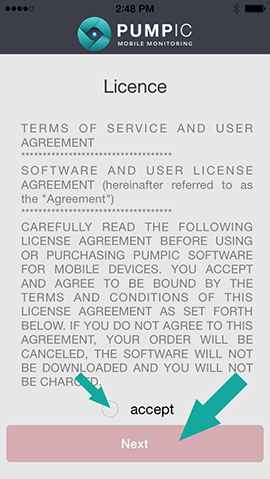
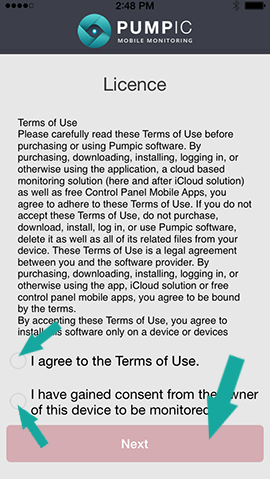
SD-2023 change  guide's text, replace images, rename pages.

diff --git a/app/templates/content/en-US/instructions/rooting-android.html b/app/templates/content/en-US/instructions/rooting-android.html
@@ -212,7 +212,7 @@
 
                     <p>*For your convenience, here are some links to instructions on rooting the most popular device models (<a href="http://forum.xda-developers.com/google-nexus-5/orig-development/nexus-5-cf-auto-root-t2507211" target="_blank">Nexus 5</a>, <a href="http://forum.xda-developers.com/nexus-5x/general/guides-how-to-guides-beginners-t3206930" target="_blank">Nexus 5x</a>, <a href="http://forum.xda-developers.com/nexus-6/development/toolkit-wugs-nexus-root-toolkit-v1-9-8-t2947452" target="_blank">Nexus 6</a>, <a href="http://forum.xda-developers.com/nexus-6p/general/guides-how-to-guides-beginners-t3206928" target="_blank">Nexus 6P</a>, <a href="http://howtorootmobile.com/how-to-root-nexus-7-on-android-6-0-marshmallow-with-twrp/" target="_blank">Nexus 7</a>, <a href="http://forum.xda-developers.com/galaxy-s5/unified-development/rom-vrtoxin-v1-0-mm6-0-klte-t3238785" target="_blank">Galaxy S5</a>, <a href="http://forum.xda-developers.com/note-4/snapdragon-dev/unofficial-cm13-0-910f-g-t3280529" target="_blank">Galaxy Note 4</a>).</p>
 
-                    <p>Are you done? Please wait for 20 minutes until Pumpic starts collecting the data.</p>
+                    <p>Are you done? Please wait for 20 minutes until collected data appears in the Control Panel.</p>
                 </div>
             </div>
         </div>
@@ -311,7 +311,7 @@
 
                     <p>*For your convenience, here are some links to instructions on rooting the most popular device models (<a href="http://forum.xda-developers.com/google-nexus-5/orig-development/nexus-5-cf-auto-root-t2507211" target="_blank">Nexus 5</a>, <a href="http://forum.xda-developers.com/nexus-5x/general/guides-how-to-guides-beginners-t3206930" target="_blank">Nexus 5x</a>, <a href="http://forum.xda-developers.com/nexus-6/development/toolkit-wugs-nexus-root-toolkit-v1-9-8-t2947452" target="_blank">Nexus 6</a>, <a href="http://forum.xda-developers.com/nexus-6p/general/guides-how-to-guides-beginners-t3206928" target="_blank">Nexus 6P</a>, <a href="http://howtorootmobile.com/how-to-root-nexus-7-on-android-6-0-marshmallow-with-twrp/" target="_blank">Nexus 7</a>, <a href="http://forum.xda-developers.com/galaxy-s5/unified-development/rom-vrtoxin-v1-0-mm6-0-klte-t3238785" target="_blank">Galaxy S5</a>, <a href="http://forum.xda-developers.com/note-4/snapdragon-dev/unofficial-cm13-0-910f-g-t3280529" target="_blank">Galaxy Note 4</a>).</p>
 
-                    <p>Are you done? Please wait for 20 minutes until Pumpic starts collecting the data.</p>
+                    <p>Are you done? Please wait for 20 minutes until collected data appears in the Control Panel.</p>
                 </div>
             </div>
         </div>

diff --git a/app/templates/wizard/setup.instruction.icloud.htm b/app/templates/wizard/setup.instruction.icloud.htm
@@ -11,7 +11,8 @@
 <ol>
     <li>
         <p>iCloud Backup is enabled on the target iPhone, iPad or iPod Touch.</p>
-        <p>To make sure, take the target Apple iOS device. Then go to <b>Settings</b> > <b>iCloud</b> > <b>Storage & Backup</b>. If <b>iCloud Backup</b> is off, please turn it <b>ON</b> (as shown below).</p>
+        <p>To make sure, take the target Apple iOS device. Then go to <b>Settings</b> > <b>iCloud</b> > <b>Backup</b>. If <b>iCloud Backup</b> is off, please turn it <b>ON</b> (as shown below).</p>
+        <p><b>Note:</b> for iOS 6-8 path is Settings > iCloud > Storage & Backup</p>
         <p>
             <img class="img-thumbnail" src="{$di.config.staticDomain}/images/how-to-install/icloud-instructions/1.png" />&nbsp;<img class="img-thumbnail" src="{$di.config.staticDomain}/images/how-to-install/icloud-instructions/2.png" />&nbsp;<img class="img-thumbnail" src="{$di.config.staticDomain}/images/how-to-install/icloud-instructions/3.png" />
         </p>
@@ -28,7 +29,7 @@
         <p>
             It all means that the data from the target devices might be sent to your Control Panel with a day delay.
             If you need the data updates to be uploaded as soon as possible, you can perform <b>iCloud Backup</b> manually.
-            Go to <b>Settings</b> > <b>iCloud</b> > <b>Storage & Backup</b> (as shown above) and tap <b>Back Up Now</b>.
+            Go to <b>Settings</b> > <b>iCloud</b> > <b>Backup</b> (as shown above) and tap <b>Back Up Now</b>.
         </p>
         <p>
             <img class="img-thumbnail" src="{$di.config.staticDomain}/images/how-to-install/icloud-instructions/4.png" />&nbsp;<img class="img-thumbnail" src="{$di.config.staticDomain}/images/how-to-install/icloud-instructions/5.png" />

diff --git a/app/templates/wizard/icloud/setup.instruction.htm b/app/templates/wizard/icloud/setup.instruction.htm
@@ -11,7 +11,8 @@
     </li>
     <li>
         <p>iCloud Backup is enabled on the target iPhone, iPad or iPod Touch.</p>
-        <p>To make sure, take the target Apple iOS device. Then go to <b>Settings</b> > <b>iCloud</b> > <b>Storage & Backup</b>. If <b>iCloud Backup</b> is off, please turn it <b>ON</b> (as shown below).</p>
+        <p>To make sure, take the target Apple iOS device. Then go to <b>Settings</b> > <b>iCloud</b> > <b>Backup</b>. If <b>iCloud Backup</b> is off, please turn it <b>ON</b> (as shown below).</p>
+        <p><b>Note:</b> for iOS 6-8 path is Settings > iCloud > Storage & Backup</p>
         <p>
             <img class="img-thumbnail" src="{$di.config.staticDomain}/images/how-to-install/icloud-instructions/1-1.png" />&nbsp;<img class="img-thumbnail" src="{$di.config.staticDomain}/images/how-to-install/icloud-instructions/1-2.png" />&nbsp;<img class="img-thumbnail" src="{$di.config.staticDomain}/images/how-to-install/icloud-instructions/1-3.png" />
         </p>
@@ -41,7 +42,7 @@
     <p>
         It all means that the data from the target devices might be sent to your Control Panel with a day delay.
         If you need the data updates to be uploaded as soon as possible, you can perform <b>iCloud Backup</b> manually.
-        Go to <b>Settings</b> > <b>iCloud</b> > <b>Storage & Backup</b> (as shown above) and tap <b>Back Up Now</b>.
+        Go to <b>Settings</b> > <b>iCloud</b> > <b>Backup</b> (as shown above) and tap <b>Back Up Now</b>.
     </p>
     <p>
         <img class="img-thumbnail" src="{$di.config.staticDomain}/images/how-to-install/icloud-instructions/3-1.png" />&nbsp;<img class="img-thumbnail" src="{$di.config.staticDomain}/images/how-to-install/icloud-instructions/3-2.png" />

diff --git a/app/templates/wizard/platform.htm b/app/templates/wizard/platform.htm
@@ -8,21 +8,22 @@
         <div class="button-holder">
             <div class="row">
                 <a href="{$di.router->getRouteUrl('wizardSetup', [
-                'platform' => 'android',
-                ])}" class="btn btn-primary">Android</a>
+                    'platform' => 'icloud',
+                    ])}" class="btn icloud-button btn-primary button-relative {if !$iCloudAvailable}disabled{/if}">
+                    <b>iCloud</b>
+                    <span class="asterisk asterisk-info button-asterisk">*</span><br>
+                    <span style="font-size: 12px;">no jailbreak of the target iOS device is required</span>
+                </a>
             </div>
             <div class="row">
                 <a href="{$di.router->getRouteUrl('wizardSetup', [
                 'platform' => 'ios',
-                ])}" class="btn btn-primary">iOS</a>
+                ])}" class="btn btn-primary"><b>iOS</b><br><span style="font-size: 12px;">target iOS device must be jailbroken</span></a>
             </div>
             <div class="row">
                 <a href="{$di.router->getRouteUrl('wizardSetup', [
-                    'platform' => 'icloud',
-                    ])}" class="btn icloud-button btn-primary button-relative {if !$iCloudAvailable}disabled{/if}">
-                        iCloud
-                        <span class="asterisk asterisk-info button-asterisk">*</span>
-                </a>
+                'platform' => 'android',
+                ])}" class="btn btn-primary"><b>Android</b><br><span style="font-size: 12px;">target Android device should be rooted for extended functionality</span></a>
             </div>
         </div>
         <div class="row">

diff --git a/app/templates/index/support.htm b/app/templates/index/support.htm
@@ -112,7 +112,7 @@
         <section id="ios" class="col-lg-7 col-md-7 col-sm-7">
             <div class="title"><i class="m-icons i-ios"></i>IOS</div>
             <ul>
-                <li><a href="/instructions/installing-ios.html">Installation Guide</a></li>
+                <li><a href="/instructions/installing-ios.html">Reinstallation Guide</a></li>
                 <li><a href="/instructions/prepare-ios-device-without-jailbreak.html">Prepare iOS Device without Jailbreak</a></li>
                 <!-- <li><a href="/instructions/activate-location-ios.html">How to activate location</a></li> -->
                 <!-- <li><a href="/instructions/activate-findmyiphone.html">How to activate "Find My iPhone"</a></li> -->
@@ -128,7 +128,7 @@
         <section id="android" class="col-lg-5 col-md-5 col-sm-5">
             <div class="title"><i class="m-icons i-android"></i>Android</div>
             <ul>
-                <li><a href="/instructions/installing-android.html">Installation guide</a></li>
+                <li><a href="/instructions/installing-android.html">Reinstallation guide</a></li>
                 <li><a href="/instructions/activate-location-android.html">How to activate location</a></li>
                 <li><a href="/instructions/keylogger-activation.html">How to enable keylogger</a></li>
                 <li><a href="/instructions/rooting-android.html">Root Instructions</a></li>

diff --git a/app/templates/content/en-US/instructions/keylogger-activation.html b/app/templates/content/en-US/instructions/keylogger-activation.html
@@ -67,7 +67,7 @@
                     </ol>
 
                     <p><b>Note:</b> the switch between keyboards cannot be prevented at any time. In case the keyboard is changed, you will stop receiving logs until "Default Keyboard" is re-enabled. However, you will receive a notification immediately.</p>
-                    <p>Are you done? Please wait for 20 minutes until Pumpic starts collecting the data.</p>
+                    <p>Are you done? Please wait for 20 minutes until collected data appears in the Control Panel.</p>
                     <p><div class="btn-done"></div></p>
                 </div>
             </div>
@@ -119,7 +119,7 @@
                     </ol>
 
                     <p><b>Note:</b> the switch between keyboards cannot be prevented at any time. In case the keyboard is changed, you will stop receiving logs until "Default Keyboard" is re-enabled. However, you will receive a notification immediately.</p>
-                    <p>Are you done? Please wait for 20 minutes until Pumpic starts collecting the data.</p>
+                    <p>Are you done? Please wait for 20 minutes until collected data appears in the Control Panel.</p>
                     <p><div class="btn-done"></div></p>
                 </div>
             </div>

diff --git a/app/templates/wizard/ios/setup.instruction.list.htm b/app/templates/wizard/ios/setup.instruction.list.htm
@@ -3,7 +3,7 @@
     <p>Make sure that Location Services is enabled. Go to <b>Settings</b> > <b>Privacy</b> > <b>Location Services</b> and, if disabled, turn on the <b>Location Services</b> switch.</p>
 </li>
 <li>
-    <p>Find Cydia icon and open it. If you don’t have it, it means the device is not <b>not jailbroken.</b></p>
+    <p>Find Cydia icon and open it. If you don’t have it, it means the device is <b>not jailbroken.</b></p>
     <p><img class="img-thumbnail" src="{$di.config.staticDomain}/images/how-to-install/ios-instructions/ios8/1.png" alt="" /></p>
 </li>
 <li>
@@ -41,4 +41,8 @@
 <li>
     <p>Find and tap on <strong>Pumpic</strong> icon.</p>
     <p><img class="img-thumbnail" src="{$di.config.staticDomain}/images/how-to-install/ios-instructions/ios8/10.png" alt="" /></p>
+</li>
+<li>
+    <p>Check the "<strong>Accept</strong>" box and tap "<strong>Next</strong>".</p>
+    <p><img class="img-thumbnail" src="http://cp.pumpic.kolya:8100/static/images/how-to-install/ios-instructions/ios8/11.png" alt="">&nbsp;<img class="img-thumbnail" src="http://cp.pumpic.kolya:8100/static/images/how-to-install/ios-instructions/ios8/12.png" alt=""></p>
 </li>

diff --git a/app/templates/content/en-US/instructions/activate-location-ios.html b/app/templates/content/en-US/instructions/activate-location-ios.html
@@ -23,5 +23,5 @@
     </li>
 </ol>
 
-<p><b>Note:</b> it is impossible to prevent a tracked user from changing Location settings. In case the above settings are deactivated, Pumpic will stop tracking the location of the target device. However, you will receive a notification immediately.</p>
-<p>Are you done? Please wait for 20 minutes until Pumpic starts collecting the data</p>
+<p><b>Note:</b> The user of the target device can change Location settings. In case the above settings are deactivated, Pumpic will stop tracking the location of the target device. You will receive a notification immediately. However, we recommend you to lock Location settings: take the target device, open “Settings”, go to General > Restrictions, tap on “Enable Restrictions” and set a password. Then go to Restrictions > Location Services and choose "Don't Allow Changes".</p>
+<p>Are you done? Please wait for 20 minutes until collected data appears in the Control Panel.</p>

diff --git a/app/templates/wizard/ios/setup.instruction.list.all.htm b/app/templates/wizard/ios/setup.instruction.list.all.htm
@@ -1,8 +1,5 @@
 {insert "wizard/ios/setup.instruction.list.htm"}
-<li>
-    <p>Check the &quot;<strong>Accept</strong>&quot; box and tap &quot;<strong>Next</strong>&quot;.</p>
-    <p><img class="img-thumbnail" src="{$di.config.staticDomain}/images/how-to-install/ios-instructions/ios8/11.png" alt="" />&nbsp;<img class="img-thumbnail" src="{$di.config.staticDomain}/images/how-to-install/ios-instructions/ios8/12.png" alt="" /></p>
-</li>
+
 <li>
     <p>Now the app will ask you to enter a <strong>PIN code</strong>, which you can get in the next step of these Guidelines.</p>
     <p><img class="img-thumbnail" src="{$di.config.staticDomain}/images/how-to-install/ios-instructions/ios8/13.png" alt="" /></p>

diff --git a/app/templates/wizard/ios/register.app.instruction.list.all.htm b/app/templates/wizard/ios/register.app.instruction.list.all.htm
@@ -1,5 +1,5 @@
 <li>
-    <p class="text-left">Go back to the app and enter the generated PIN Code. Note that the PIN Code is valid within 15 minutes only. If the time has expired, please generate a new PIN Code again. Note that the PIN Code shown below is an example only. Use your own PIN Code.</p>
+    <p class="text-left">Go back to the app and enter the generated PIN Code. Note that the PIN Code is valid within 15 minutes only. If the time has expired, please generate a new PIN Code again.</p>
     <div class="add-code-block ios">
         {if $code}
             <h3>{$di.t->_('Your code is:')} {$code}</h3>

diff --git a/app/templates/content/en-US/instructions/granting-superuser-rights.html b/app/templates/content/en-US/instructions/granting-superuser-rights.html
@@ -55,7 +55,7 @@
 
                         <p>Now when the root access is granted, you can enjoy the entire range of Pumpic monitoring features.</p>
 
-                        <p>Are you done? Please wait for 20 minutes until Pumpic starts collecting data.</p>
+                        <p>Are you done? Please wait for 20 minutes until collected data appears in the Control Panel.</p>
 
                         <p><a href="{$previos}" class="btn btn-primary">I'm done!</a></p>
                         

diff --git a/app/templates/content/en-US/instructions/installing-android.html b/app/templates/content/en-US/instructions/installing-android.html
@@ -11,3 +11,4 @@
     {insert "wizard/android/register.app.instruction.list.htm"}
 </ol>
 <p>The installation was completed correctly. Pumpic is already monitoring the target device. The data from the target device will soon be sent to your Control Panel.</p>
+<p><b>NOTE:</b> The very first data collection requires additional time. Not all data may be shown in the Control Panel at the first 24 hours. Please make sure the target device has stable Internet connection to download all the data.</p>
